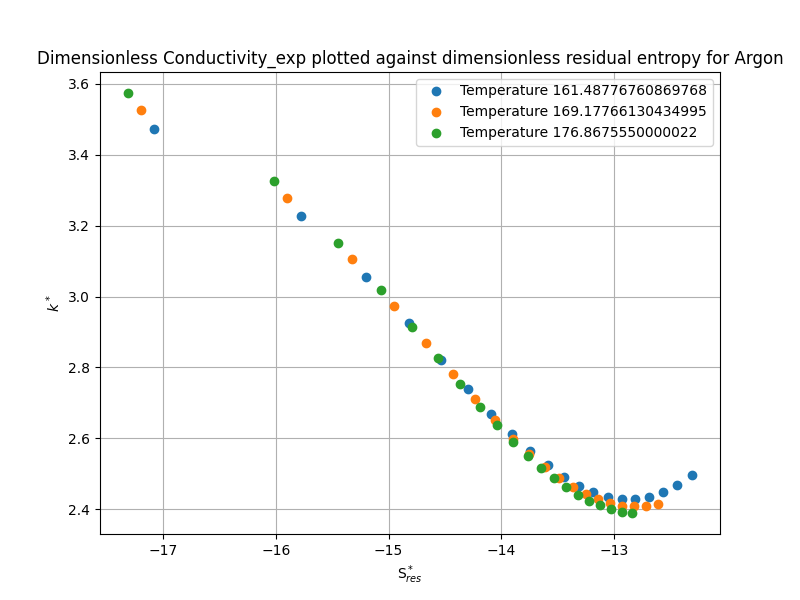
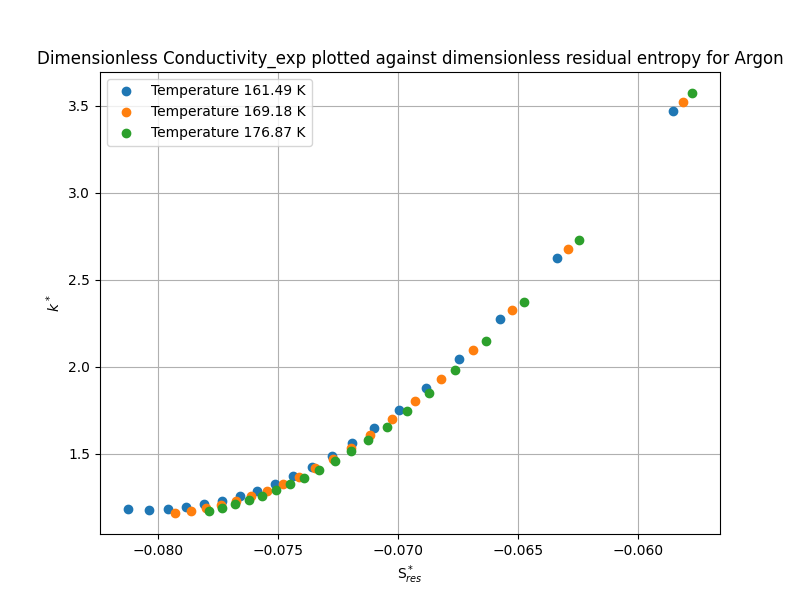
Labeling and some minor additions of entropy for ideal gas

diff --git a/Functions.py b/Functions.py
@@ -35,7 +35,8 @@ def plot_and_annotate(pressure, data_calculated, data_exp, property_name, mean_d
     for i, T in enumerate(temp):
         color = colors[i]
         plt.plot(pressure/1e5, data_calculated[T], linestyle=linestyle_calculated, marker=marker_calculated, color=color, label=f'{property_name} thermopack at {T:.2f} K')
-        plt.text(pressure[15]/1e5, data_calculated[T][0] - y_offset, f' Mean Diff: {mean_diff_calculated[i]:.2f}%', color='k')
+        plt.text(pressure[15]/1e5, data_calculated[T][0] - y_offset, f' Mean Diff: ', color=color)
+        plt.text(pressure[15]/1e5 + 7 , data_calculated[T][0] - y_offset, f'{mean_diff_calculated[i]:.2f}%', color='k')
         i += 1
 
     i = 0
@@ -46,7 +47,7 @@ def plot_and_annotate(pressure, data_calculated, data_exp, property_name, mean_d
 
     plt.xlabel('Pressure (bar)')
     plt.ylabel(f'{property_name}')
-    plt.title(f'{property_name} (exp & calc) vs Pressure')
+    plt.title(f'{property_name} vs Pressure')
     plt.legend()
 
     plt.savefig(f"Plots/Calc_VS_Exp_{property_name}.png")
@@ -58,7 +59,7 @@ def residual_plot(property_string, data_exp):
 
     i = 0
     for T in Initialization.T_values:
-        label = f'Temperature {T}'
+        label = f'Temperature {T:.2f} K'
         if property_string == "Viscosity":
             plt.plot(1/dim_less_entropy(Initialization.entropy[T]), dim_less_visc(T, Initialization.visc_data[T]), 'o', label=label)
         elif property_string == "Conductivity":
@@ -66,7 +67,7 @@ def residual_plot(property_string, data_exp):
         elif property_string == "Viscosity_exp":
             plt.plot(1/dim_less_entropy(Initialization.entro_exp[i]), dim_less_visc(T, Initialization.np.array(data_exp[i])), 'o', label=label)
         elif property_string == "Conductivity_exp":
-            plt.plot(dim_less_entropy(Initialization.entro_exp[i]), dim_less_cond(T, Initialization.np.array(data_exp[i])), 'o', label=label)
+            plt.plot(1/dim_less_entropy(Initialization.entro_exp[i]), dim_less_cond(T, Initialization.np.array(data_exp[i])), 'o', label=label)
         else:
             print("Invalid property string! \n Set property string to either Viscosity or Conductivity")
             return None

diff --git a/Initialization.py b/Initialization.py
@@ -9,6 +9,7 @@ from scipy.constants import Avogadro
 
 # Create a MieKinGas instance
 eos = saftvrmie('AR') 
+kin_id = MieKinGas('AR', is_idealgas=True)
 kin = MieKinGas('AR', use_eos=eos)  # AR, modeled with RET-Mie
 
 '''print(f'sigma : {kin.sigma}')
@@ -20,7 +21,7 @@ tc, vc, pc = eos.critical([1])
 # Define temperature and pressure ranges
 T_values = [1.05*tc, 1.1*tc, 1.15*tc]  # Kelvin
 pressure_start = 1e5  # Pascal -> 1 bar
-pressure_end = 10e5
+pressure_end = 50e5
 pressure = np.linspace(pressure_start, pressure_end, 20)
 x = [0.5, 0.5]  # Molar composition used for conductivity and viscosity in pykingas ()
 z = [1]
@@ -64,6 +65,8 @@ visc_data = {T: [] for T in T_values} # [Pa*s]
 
 # Store Residual entropy with thermopack in entropy list
 entropy = {T: [] for T in T_values}
+entropy_id = {T: [] for T in T_values}
+residual_entropy_exp = {T: [] for T in T_values}
 
 # Density
 density = {T: [] for T in T_values}
@@ -82,7 +85,10 @@ for T in T_values:
         spes_volume[T].append(s_volume[0])
         density[T].append((1/s_volume[0])*Avogadro)
         entro = eos.entropy_tv(T, s_volume[0], z, property_flag='R') # Flag R to calculate residual entropy
+        j = eos.getcompindex('AR')
+        entro_id = eos.idealentropysingle(T, p, j)
         entropy[T].append(entro)
+        entropy_id[T].append(entro_id)
         _, Cp_vap = eos.enthalpy(T, p, x, eos.VAPPH, dhdt=True) # From thermopack documentation 
         cp_dict[T].append(Cp_vap)
 
@@ -94,3 +100,5 @@ for T in T_values:
         cond = kin.thermal_conductivity(T, spes_volume[T][i], x, N=2)
         cond_data[T].append(cond)
         i+=1
+
+## Her må vi beregne residual entropy for experimental data

diff --git a/viscosity.py b/viscosity.py
@@ -12,6 +12,6 @@ mean_diff_visc_115 = Functions.calculate_mean_percentage_difference(Initializati
 mean_diff_visc = [mean_diff_visc_105, mean_diff_visc_110, mean_diff_visc_115]
 
 # Initialize plots
-Functions.plot_and_annotate(Initialization.pressure, Initialization.visc_data, visc_exp, 'Viscosity', mean_diff_visc, Initialization.T_values, linestyle_calculated='-', linestyle_exp='--', marker_calculated='o', marker_exp='s', y_offset=0.1e-6)
+Functions.plot_and_annotate(Initialization.pressure, Initialization.visc_data, visc_exp, 'Viscosity', mean_diff_visc, Initialization.T_values, linestyle_calculated='-', linestyle_exp='--', marker_calculated='o', marker_exp='s', y_offset=0.25e-6)
 Functions.residual_plot("Viscosity", Initialization.visc_data)
 Functions.residual_plot("Viscosity_exp", visc_exp)
